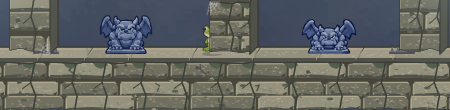
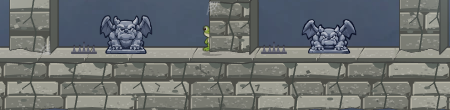
Implement quieter Balanced Silver Castle atmosphere

Changed region(s): [[0.0622, 0.4091, 0.2178, 0.4909], [0.56, 0.4091, 0.6533, 0.4909], [0.84, 0.4364, 0.9333, 0.4909]]

diff --git a/src/engine/arenas/packs/castleStationMaterials.ts b/src/engine/arenas/packs/castleStationMaterials.ts
@@ -14,11 +14,11 @@ export type MaterialPalette = {
   rim: string;
 };
 const pale: Record<PlatformMaterial, string> = {
-  limestone: '#d6c9a8',
+  limestone: '#ddd8c2',
   alloy: '#f4fcff'
 };
 const deep: Record<PlatformMaterial, string> = {
-  limestone: '#514d3c',
+  limestone: '#57564b',
   alloy: '#142432'
 };
 function polygon(c: Ctx2D, points: Point[], fill: string): void {
@@ -86,8 +86,8 @@ export function paintMaterialFace(c: Ctx2D, x: number, y: number, w: number, h: 
           if (material === 'limestone')
             line(c, [[cx, yy + 2 + r() * 4], [cx + (r() - .5) * 13, yy + rh * (.2 + r() * .3)], [cx - 2 + r() * 9, yy + rh * (.5 + r() * .4)]], p.shade, .8 + r());
         }
-        brush(c, a + 4, yy + 3, Math.max(1, span - 10), Math.max(1, rh - 6), 'rgba(239,218,195,.5)', r, brick ? 16 : 28);
-        brush(c, a + span * .45, yy + rh * .4, span * .35, rh * .35, 'rgba(70,58,79,.25)', r, 11);
+        brush(c, a + 4, yy + 3, Math.max(1, span - 10), Math.max(1, rh - 6), material === 'limestone' ? 'rgba(229,225,213,.5)' : 'rgba(239,218,195,.5)', r, brick ? 16 : 28);
+        brush(c, a + span * .45, yy + rh * .4, span * .35, rh * .35, material === 'limestone' ? 'rgba(70,67,69,.25)' : 'rgba(70,58,79,.25)', r, 11);
         a = b;
       }
     }
@@ -197,7 +197,7 @@ export function paintMaterialCap(c: Ctx2D, x: number, y: number, w: number, dept
       line(c, [[l.a + 3, 3], [l.b + sp - 4, 3]], pale[material], 1);
       line(c, [[l.a + sp, 1], [l.a, depth - 1]], p.ink, .8);
       line(c, [[l.a + sp + 1.2, 2], [l.a + 1.2, 12]], p.rim, .7);
-      brush(c, l.a + 4, 5, Math.max(1, span - 5), 5, 'rgba(229,213,196,.45)', r, Math.min(23, span));
+      brush(c, l.a + 4, 5, Math.max(1, span - 5), 5, material === 'limestone' ? 'rgba(229,225,213,.45)' : 'rgba(229,213,196,.45)', r, Math.min(23, span));
       if (material === 'alloy')
         line(c, [[l.a + 7, 9], [Math.min(l.b - 3, l.a + 24), 9]], '#91cfcd', 1.1);
     }
@@ -214,10 +214,10 @@ function paintAtmosphere(c: Ctx2D, w: number, h: number, m: PlatformMaterial, r:
   for (const cell of cells(w, 24, 58, r)) {
     const x = (cell.a + cell.b) / 2, y = h * (.3 + r() * .45);
     if (m === 'limestone') {
-      polygon(c, [[x - 9, 0], [x + 4, 0], [x + 7, 3], [x, 7], [x - 5, 5]], '#5e6950');
-      line(c, [[x + 5, 0], [x + 1, h * .4], [x + 6, h * .65], [x + 3, h - 1]], '#42483a', 1.6);
-      line(c, [[x + 1, h * .4], [x - 7, h * .51]], '#42483a', 1);
-      oval(c, x - 6, y, 3, 1.4, '#636b55');
+      polygon(c, [[x - 9, 0], [x + 4, 0], [x + 7, 3], [x, 7], [x - 5, 5]], '#697064');
+      line(c, [[x + 5, 0], [x + 1, h * .4], [x + 6, h * .65], [x + 3, h - 1]], '#4c5147', 1.6);
+      line(c, [[x + 1, h * .4], [x - 7, h * .51]], '#4c5147', 1);
+      oval(c, x - 6, y, 3, 1.4, '#72776b');
     }
     else if (m === 'alloy') {
       c.fillStyle = '#0e2537';

diff --git a/src/engine/arenas/illustratedBackdropAsset.ts b/src/engine/arenas/illustratedBackdropAsset.ts
@@ -5,7 +5,7 @@ const urls = {
   treetops: new URL('./assets/treetops-painted.webp', import.meta.url).href,
   waterfall: new URL('./assets/waterfall-painted.webp', import.meta.url).href,
   volcano: new URL('./assets/volcano-painted.webp', import.meta.url).href,
-  castle: new URL('./assets/castle-painted.webp', import.meta.url).href,
+  castle: new URL('./assets/castle-painted-balanced-silver.webp', import.meta.url).href,
   haunted_graveyard: new URL('./assets/haunted-graveyard-painted.webp', import.meta.url).href,
   candy_land: new URL('./assets/candy-land-painted.webp', import.meta.url).href,
   underwater: new URL('./assets/underwater-painted.webp', import.meta.url).href,
@@ -84,17 +84,17 @@ const winterPropArt = {
 // decode SVG Blobs with createImageBitmap, so runtime uses transparent WebP
 // renders of those traced paths at several times their displayed size.
 const castlePropArt = {
-  guard: createBackdrop(new URL('./assets/castle-guard-cartoon.webp', import.meta.url).href),
-  sconce: createBackdrop(new URL('./assets/castle-sconce-cartoon.webp', import.meta.url).href),
-  chandelier: createBackdrop(new URL('./assets/castle-chandelier-cartoon.webp', import.meta.url).href),
-  column: createBackdrop(new URL('./assets/castle-column-cartoon.webp', import.meta.url).href),
+  guard: createBackdrop(new URL('./assets/castle-guard-cartoon-balanced-silver.webp', import.meta.url).href),
+  sconce: createBackdrop(new URL('./assets/castle-sconce-cartoon-balanced-silver.webp', import.meta.url).href),
+  chandelier: createBackdrop(new URL('./assets/castle-chandelier-cartoon-balanced-silver.webp', import.meta.url).href),
+  column: createBackdrop(new URL('./assets/castle-column-cartoon-balanced-silver.webp', import.meta.url).href),
 };
 
 // The editable Guardian SVG poses live in the castle study. Both worker-local
 // bitmaps must be ready before the spring skin replaces its Canvas fallback.
 const castleGuardianArt = {
-  rest: createBackdrop(new URL('./assets/castle-guardian-rest.webp', import.meta.url).href),
-  compressed: createBackdrop(new URL('./assets/castle-guardian-compressed.webp', import.meta.url).href),
+  rest: createBackdrop(new URL('./assets/castle-guardian-rest-balanced-silver.webp', import.meta.url).href),
+  compressed: createBackdrop(new URL('./assets/castle-guardian-compressed-balanced-silver.webp', import.meta.url).href),
 };
 
 export function getCastleGuardianArt(): { rest: ImageBitmap | null; compressed: ImageBitmap | null } {

diff --git a/src/engine/arenas/packs/castle.ts b/src/engine/arenas/packs/castle.ts
@@ -307,7 +307,7 @@ export const castle: ArenaPack = {
   weather: {
     particleCount: 15,
     types: [
-      { type: 'ember', weight: 1, sizeRange: [1, 3], vxRange: [-5, 5], vyRange: [-15, -35], rotSpeedRange: [0, 1], color: '#FF8844' },
+      { type: 'ember', weight: 1, sizeRange: [1, 3], vxRange: [-5, 5], vyRange: [-15, -35], rotSpeedRange: [0, 1], color: '#b3d9e7' },
     ],
   },
 
@@ -335,7 +335,7 @@ export const castle: ArenaPack = {
     vxRange: [-2, 2],
     vyRange: [-5, -15],
     alphaRange: [0.15, 0.4],
-    colors: ['#FFAA44', '#FF8833'],
+    colors: ['#a4dcf0', '#cadfe8'],
   },
 
   dayNight: {
@@ -672,14 +672,14 @@ export const castle: ArenaPack = {
   },
 
   drawWeatherParticle: (ctx: Ctx2D, w: WeatherParticle) => {
-    // Torch spark — concentric circles, no rotation. Draw at world coords;
+    // Silver sconce spark — concentric circles, no rotation. Draw at world coords;
     // reset globalAlpha at end since save/restore is gone.
-    ctx.fillStyle = w.color || '#FF8844';
+    ctx.fillStyle = w.color || '#b3d9e7';
     ctx.globalAlpha = 0.7;
     ctx.beginPath();
     ctx.arc(w.x, w.y, w.size, 0, Math.PI * 2);
     ctx.fill();
-    ctx.fillStyle = '#FFCC66';
+    ctx.fillStyle = '#e3f1f0';
     ctx.beginPath();
     ctx.arc(w.x, w.y, w.size * 0.4, 0, Math.PI * 2);
     ctx.fill();

diff --git a/src/engine/arenas/illustratedBackdropAsset.test.ts b/src/engine/arenas/illustratedBackdropAsset.test.ts
@@ -38,10 +38,10 @@ describe('illustrated arena backdrop preload', () => {
     expect(fetchMock).toHaveBeenCalledTimes(7);
     expect(decodeMock).toHaveBeenCalledTimes(7);
     expect(fetchMock.mock.calls.map(call => call[0])).toEqual(expect.arrayContaining([
-      expect.stringContaining('castle-painted.webp'),
-      ...['guard', 'sconce', 'chandelier', 'column'].map(name => expect.stringContaining(`castle-${name}-cartoon.webp`)),
-      expect.stringContaining('castle-guardian-rest.webp'),
-      expect.stringContaining('castle-guardian-compressed.webp'),
+      expect.stringContaining('castle-painted-balanced-silver.webp'),
+      ...['guard', 'sconce', 'chandelier', 'column'].map(name => expect.stringContaining(`castle-${name}-cartoon-balanced-silver.webp`)),
+      expect.stringContaining('castle-guardian-rest-balanced-silver.webp'),
+      expect.stringContaining('castle-guardian-compressed-balanced-silver.webp'),
     ]));
     expect(Object.values(art.getCastlePropArt())).toEqual([bitmap, bitmap, bitmap, bitmap]);
     expect(Object.values(art.getCastleGuardianArt())).toEqual([bitmap, bitmap]);

diff --git a/src/engine/arenas/packs/castleStationPlatforms.ts b/src/engine/arenas/packs/castleStationPlatforms.ts
@@ -11,7 +11,7 @@ type Palette = {
   rim: string;
 };
 const palettes: Record<PlatformMaterial, Palette> = {
-  limestone: { ink: '#424236', face: '#817f68', light: '#aaa68a', shade: '#5b5c4e', cap: '#b9b295', rim: '#d7cdac' },
+  limestone: { ink: '#474740', face: '#8b8b7d', light: '#b5b4a3', shade: '#626459', cap: '#bebcac', rim: '#ded8c5' },
   alloy: { ink: '#101e2e', face: '#728fa4', light: '#d2e6ef', shade: '#243c54', cap: '#e0f4fa', rim: '#3bebeb' }
 };
 type Point = [

diff --git a/.claude/skills/visual-style/SKILL.md b/.claude/skills/visual-style/SKILL.md
@@ -242,6 +242,8 @@ The [Winter Lake case study](../../../docs/mockups/winter-lake/LESSONS.md) trace
    The [Winter Lake atmosphere study](../../../docs/mockups/winter-atmosphere/README.md) shows why cloud-only variants can look nearly identical even when their shapes differ: the painted landscape covers most of the frame. Preserve a strong existing arena signature, such as Winter Lake's broad aurora, unless redesigning it is the explicit goal. Explore distinct grades across sky, distant painting, cached scenery, clouds, and fog while keeping character and hazard colors stable for contrast. Compare fixed day and night composites, then test the chosen grade in motion at dusk and night. A study filter on cached scenery still needs a production cost check or baked replacement.
 
    Glacier Teal was selected for Winter Lake. Its production pass keeps the Pearl painting and gameplay art assets unchanged, grades the painting and fixed props only when their caches are built, and changes sky/cloud/fog colors directly. The existing blue vector platforms remain unfiltered: grading every detailed facet delayed the default worker's arena-switch loading handoff, and the blue material separates from the teal shore. The original aurora and scene tint stay on their established paths; collectibles, hazards, and characters stay unfiltered. Preserve the before/after day and night images in the study, and check both worker modes in the live game. If the grade later needs to change, edit the palette and cache-time filter constants together so the sky, landscape, and snow material remain coherent.
+
+   Castle's [Balanced Silver atmosphere study](../../../docs/mockups/castle-cartoon-props/atmosphere/README.md) adds another rule: a brighter painting alone can make unchanged foreground stone and props appear pasted on. Compare the background, platform faces, and fixed foreground artwork in the same full scene. The first Silver Moon lift was too pale; the selected quieter version uses about 55% of that lift, with a matching but restrained silver treatment across the scene. Bake the painted plate and fixed transparent props offline, express scalable Canvas stone in its palette, and coordinate moving particle colors separately. Do not apply a per-frame screen filter or tint characters, whose colors provide gameplay contrast. Check the real renderer at match size in both worker modes after the palette is translated from mockup filters, because the first Canvas translation was too cool and needed a warmer limestone correction.
 6. **Validate the integrated arena.** Preserve the matched baseline and selected scene, then recapture the real renderer at noon, sunset, and night at 1280 × 720 and a smaller display size. Play with pale, dark, warm, and green characters crossing the actual backdrop and landing surfaces; check crowding, spawn lanes, landmarks, and intentional foreground hiding. Watch timed hazards, spring compression, pickups, weather, and signature effects in motion rather than inferring their clarity from fixed stills. Enter and switch arenas in both the default simulation-worker mode and `?simWorker=off`. Check cold entry and cache construction separately from steady-state frame pacing, especially after filters or detailed Canvas art change. Record which views and modes passed, the selected and rejected tradeoffs, and any unreviewed conditions. The [Winter Lake case study](../../../docs/mockups/winter-lake/LESSONS.md#production-and-review-gates) shows how to keep partial evidence distinct from completion.
 
 An arena can stop after any pass for feedback. Do not treat a static mockup as proof that the production scene, night compositing, or motion is correct. Keep gameplay behavior stable while making art decisions, and explicitly call out any proposed gameplay change.

diff --git a/docs/mockups/castle-cartoon-props/atmosphere/README.md b/docs/mockups/castle-cartoon-props/atmosphere/README.md
@@ -1,5 +1,17 @@
 # Castle atmosphere study
 
+## Selected production treatment: Balanced Silver, quieter
+
+The quieter Balanced Silver is now used by the playable Castle. The painted wall has the selected restrained lift and broad moonlight pools baked into a new WebP. The guard, sconces, chandelier, edge columns, and both Guardian spring poses have matching silver WebPs. Limestone platform caps, faces, rims, and material marks use a warmer gray silver palette; the cool weather motes match the blue flames. Characters keep their own colors, and collision geometry, draw order, and Guardian contact behavior are unchanged. The scene uses no per-frame image filter or pixel remap.
+
+The original artwork remains as editable/source references. Run [bakeBalancedSilver.mjs](bakeBalancedSilver.mjs) with `CASTLE_PROPS_BROWSER` pointing to a local Chromium or Edge binary to regenerate the seven runtime WebPs from those masters. This is an offline bake; the arena preload loads only the selected variants. The seven files total 101,428 bytes before bundling, and Vite inlines the small sconce.
+
+| Default simulation worker | `simWorker=off` |
+| --- | --- |
+| ![Playable Castle with Balanced Silver](live-balanced-default.png) | ![Playable Castle with Balanced Silver and simulation on the main thread](live-balanced-simWorker-off.png) |
+
+These are 1280 × 720 production-preview captures after countdown. Direct Castle entry and Meadow-to-Castle switching loaded the selected art without page errors in both worker modes. The production build and 26 focused Vitest tests passed. The stills establish the integrated palette; character movement, banners, flames, and Guardian compression should also be judged in live play.
+
 ## Silver Moon follow-up
 
 The first Silver Moon lifted only the background and made the room too pale. Its platform faces, Guardian, chandelier, and other foreground props kept the old blue-gray treatment, so they appeared pasted onto a brighter room. The follow-up below reduces the lift and grades those Castle draw calls as well. Character sprites retain their original colors for gameplay contrast. All captures use the same scene and 28 × 12 thorn samples. Balanced Silver's background lift was then reduced to about **55% of the prior adjustment** at the user's request; its prop and platform-face treatment stays the same. Deep Silver keeps more night depth, while Pewter is an intentionally less blue option.

diff --git a/docs/mockups/castle-cartoon-props/README.md b/docs/mockups/castle-cartoon-props/README.md
@@ -1,6 +1,6 @@
 # Castle cartoon props
 
-The next review stage is the [Castle atmosphere gallery](atmosphere/README.md): matched Current, Silver Moon, Violet Vigil, and Ember Hall scenes. The [thorn silhouette gallery](thorns/README.md) remains an unselected study; production thorns are unchanged.
+The approved quieter Balanced Silver from the [Castle atmosphere gallery](atmosphere/README.md) is implemented in the playable arena. The [thorn silhouette gallery](thorns/README.md) remains an unselected study; production thorns are unchanged.
 
 The approved Moonlit props use simplified storybook silhouettes and broad light/shadow planes. The guard, sconce, chandelier, and edge column were traced to editable [SVG masters](svg/) and rendered as transparent WebP files for the game. A browser probe found that `createImageBitmap` could not decode the SVG Blob in Edge, while the WebP files loaded in both canvas-owning worker modes. Run `node docs/mockups/castle-cartoon-props/rasterize.mjs` with `CASTLE_PROPS_BROWSER` set to a local Chromium or Edge binary to regenerate the runtime files from the SVGs.
 
